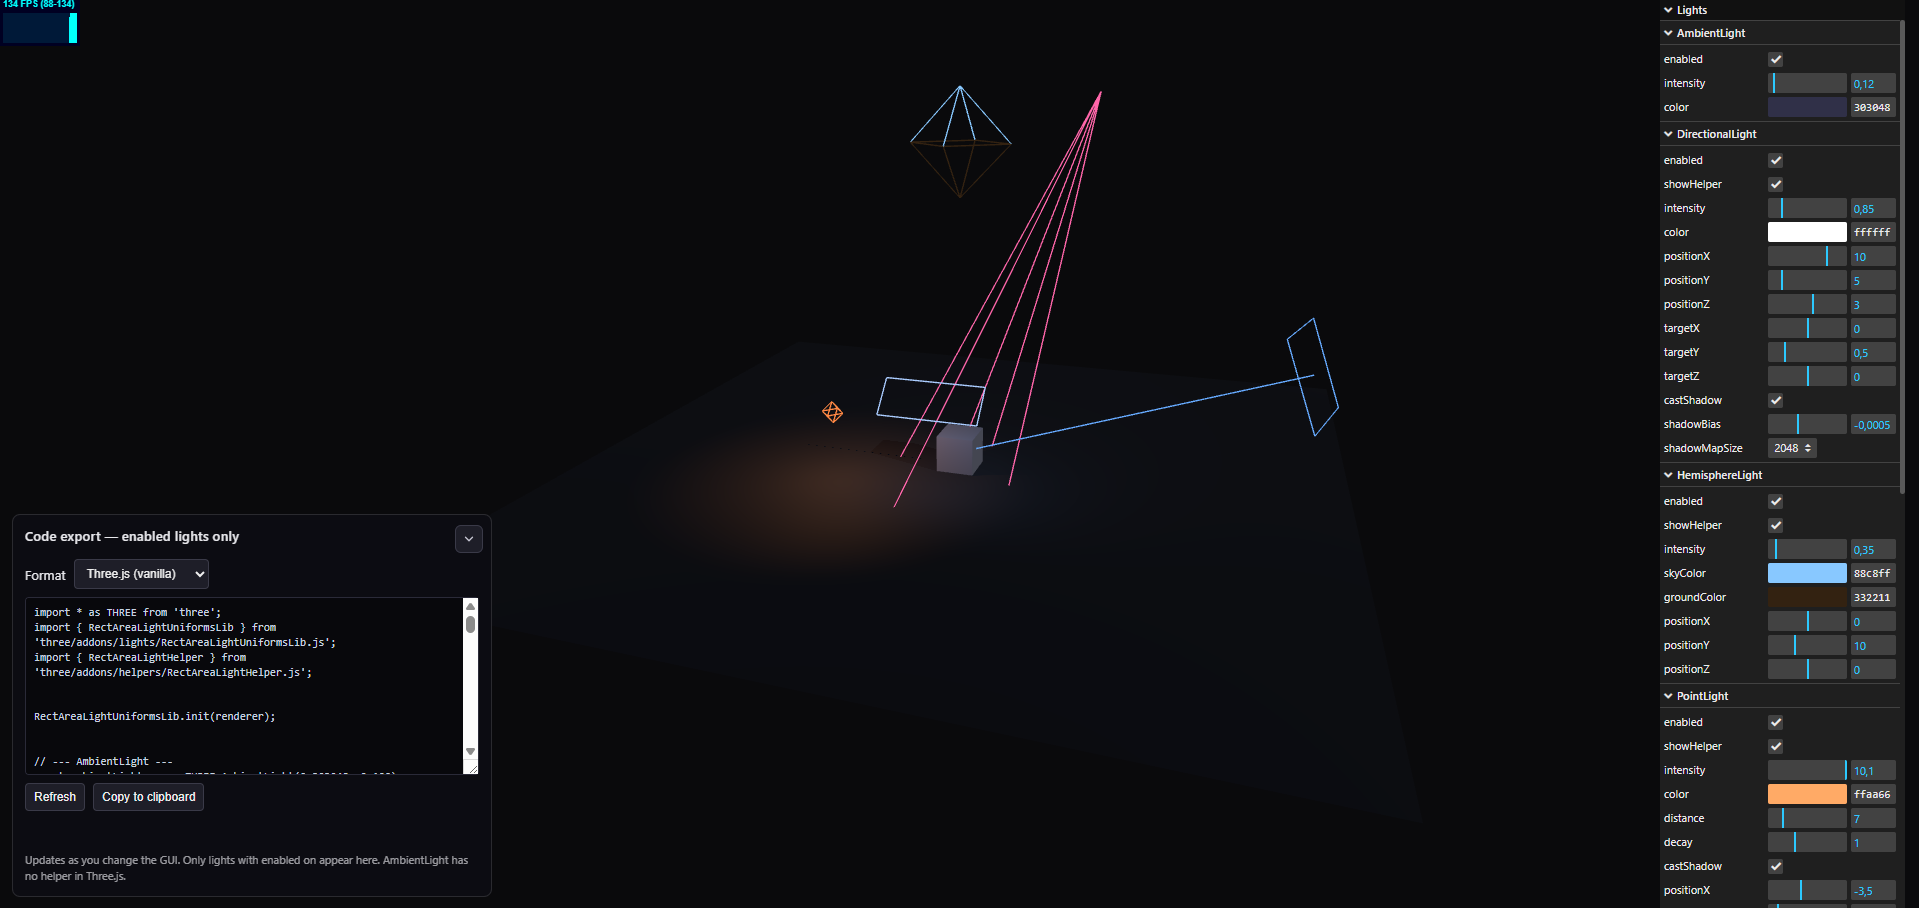
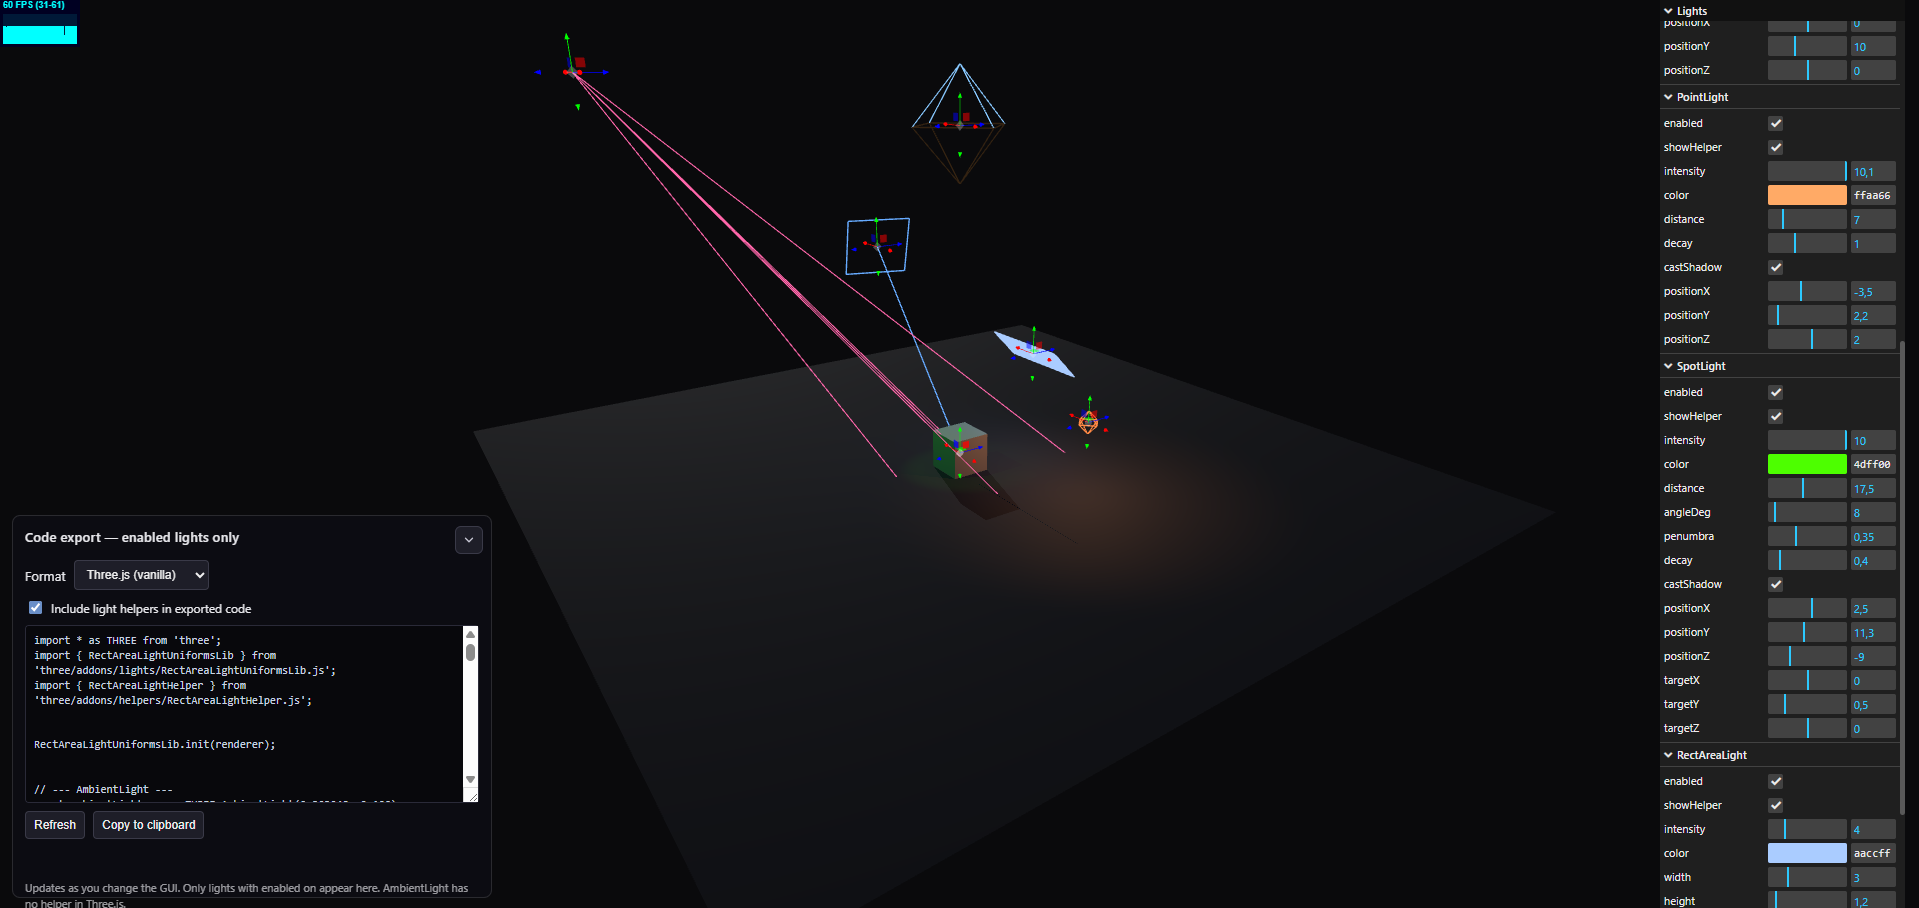
gizmos size depending on camera distance and update readme

diff --git a/main.js b/main.js
@@ -398,7 +398,7 @@ fRect.add(rectParams, 'rotYDeg', -180, 180, 1).name('rotationYDeg').onChange(onR
 fRect.add(rectParams, 'rotZDeg', -180, 180, 1).name('rotationZDeg').onChange(onRectChange);
 
 /**
- * Gizmos souris — un TransformControls par objet (r181+ : helper via getHelper(), pas scene.add(tc)).
+ * Mouse-driven translation gizmos: one TransformControls instance per target object.
  */
 function updateAllGuiDisplays(rootGui) {
     if (!rootGui || !rootGui.children) return;
@@ -466,6 +466,32 @@ const gizmoRect = createTranslateGizmo(() => {
     rectParams.posZ = rectLight.position.z;
 });
 
+/**
+ * Distance-based gizmo scale: lower setSize as the camera moves away from each attached object.
+ * TransformControls already grows handle geometry with world-space distance; this further reduces apparent on-screen size at long range.
+ */
+const LIGHT_GIZMO_SIZE_REF_DIST = 5.5;
+const LIGHT_GIZMO_SIZE_MIN = 0.22;
+const LIGHT_GIZMO_SIZE_MAX = 1;
+const lightGizmoWorldPos = new THREE.Vector3();
+const lightTransformControlsList = [
+    gizmoDir, gizmoDirTarget, gizmoHemi, gizmoPoint, gizmoSpot, gizmoSpotTarget, gizmoRect
+];
+
+function updateLightGizmoScreenScale() {
+    for (const tc of lightTransformControlsList) {
+        if (tc.object === undefined) continue;
+        tc.object.getWorldPosition(lightGizmoWorldPos);
+        const dist = camera.position.distanceTo(lightGizmoWorldPos);
+        const s = THREE.MathUtils.clamp(
+            LIGHT_GIZMO_SIZE_REF_DIST / Math.max(dist, 0.2),
+            LIGHT_GIZMO_SIZE_MIN,
+            LIGHT_GIZMO_SIZE_MAX
+        );
+        tc.setSize(s);
+    }
+}
+
 function syncLightGizmoAttachments() {
     if (dirParams.enabled) {
         gizmoDir.attach(dirLight);
@@ -499,6 +525,7 @@ applyRectFromParams();
 // Animation loop
 function animate() {
     requestAnimationFrame(animate);
+    updateLightGizmoScreenScale();
     controls.update();
     dirHelper.update();
     spotHelper.update();

diff --git a/README.md b/README.md
@@ -15,13 +15,14 @@ A small web demo to **compose a lighting setup** in [Three.js](https://threejs.o
 - Reference scene (ground, cube, PBR materials) with **shadows** and **OrbitControls**.
 - **Light types** in a [lil-gui](https://lil-gui.georgealways.com/) panel: Ambient, Directional, Hemisphere, Point, Spot, RectArea (with `RectAreaLightUniformsLib`).
 - Per-light enable/disable and **helpers** (Ambient has no native helper in Three.js).
+- **Draggable gizmos** ([`TransformControls`](https://threejs.org/docs/#examples/en/controls/TransformControls)): translate each enabled light (and directional / spot **targets**) directly in the viewport; gizmo size scales with camera distance so handles stay usable when you zoom out.
 - **Code export** panel: **enabled** lights only, **vanilla Three.js** or **React Three Fiber** format, refresh and clipboard copy.
 - **Stats** (FPS) overlay for quick performance checks.
 
 ## Tech stack
 
 - Plain HTML, CSS, and ES modules.
-- Three.js **0.183.0** via [import map](https://developer.mozilla.org/en-US/docs/Web/HTML/Reference/Elements/script/type/importmap) and [esm.sh](https://esm.sh/) (`three` and `examples/jsm` addons).
+- Three.js **0.183.0** via [import map](https://developer.mozilla.org/en-US/docs/Web/HTML/Reference/Elements/script/type/importmap) and [jsDelivr](https://www.jsdelivr.com/) (`three.module.js` and `examples/jsm` addons).
 
 ## Run locally
 